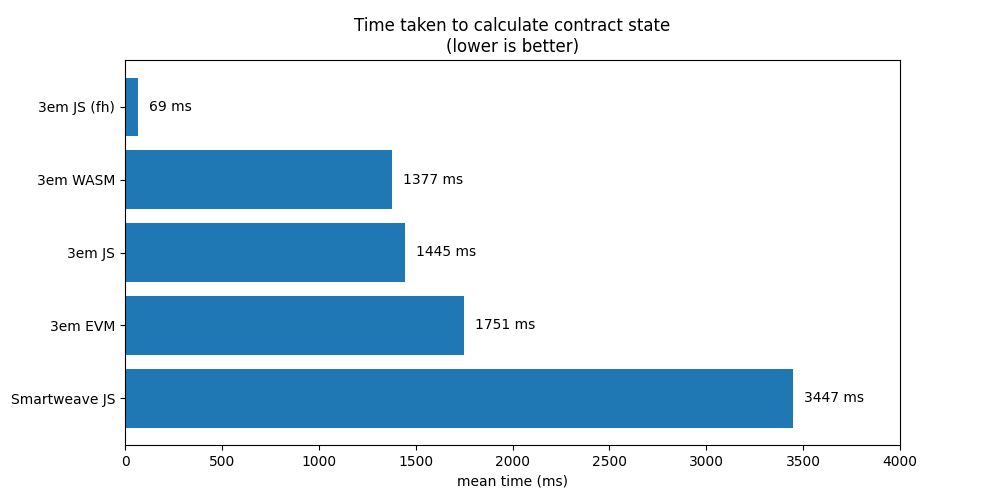
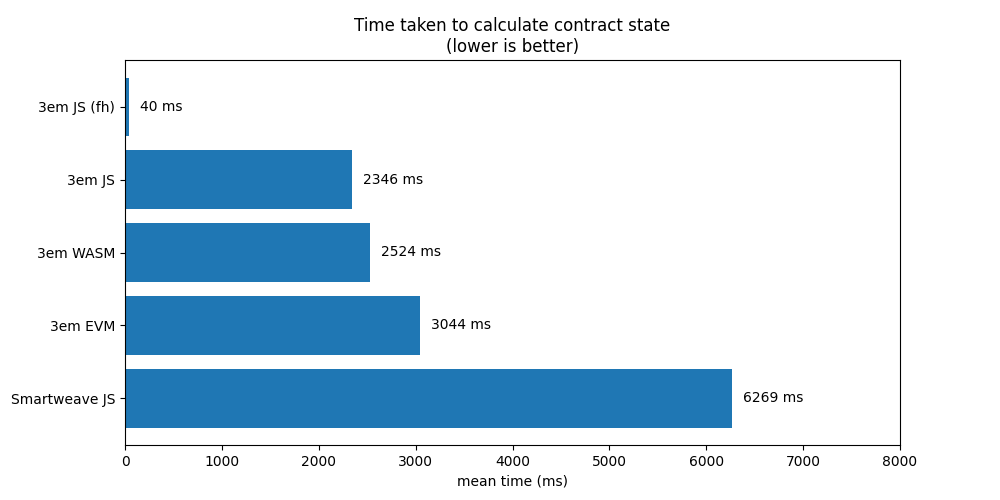
update benchmarks

diff --git a/tools/benchmarks/mean.py b/tools/benchmarks/mean.py
@@ -37,6 +37,6 @@ ax.set_xlabel('mean time (ms)')
 ax.set_title('Time taken to calculate contract state\n(lower is better)')
 
 ax.bar_label(bars, fmt='%d ms', padding=8)
-ax.set_xlim(right=4000)  # adjust xlim to fit labels
+ax.set_xlim(right=8000)  # adjust xlim to fit labels
 
 plt.savefig(os.path.realpath(os.path.dirname(__file__)) + '/bench_mean.png')
